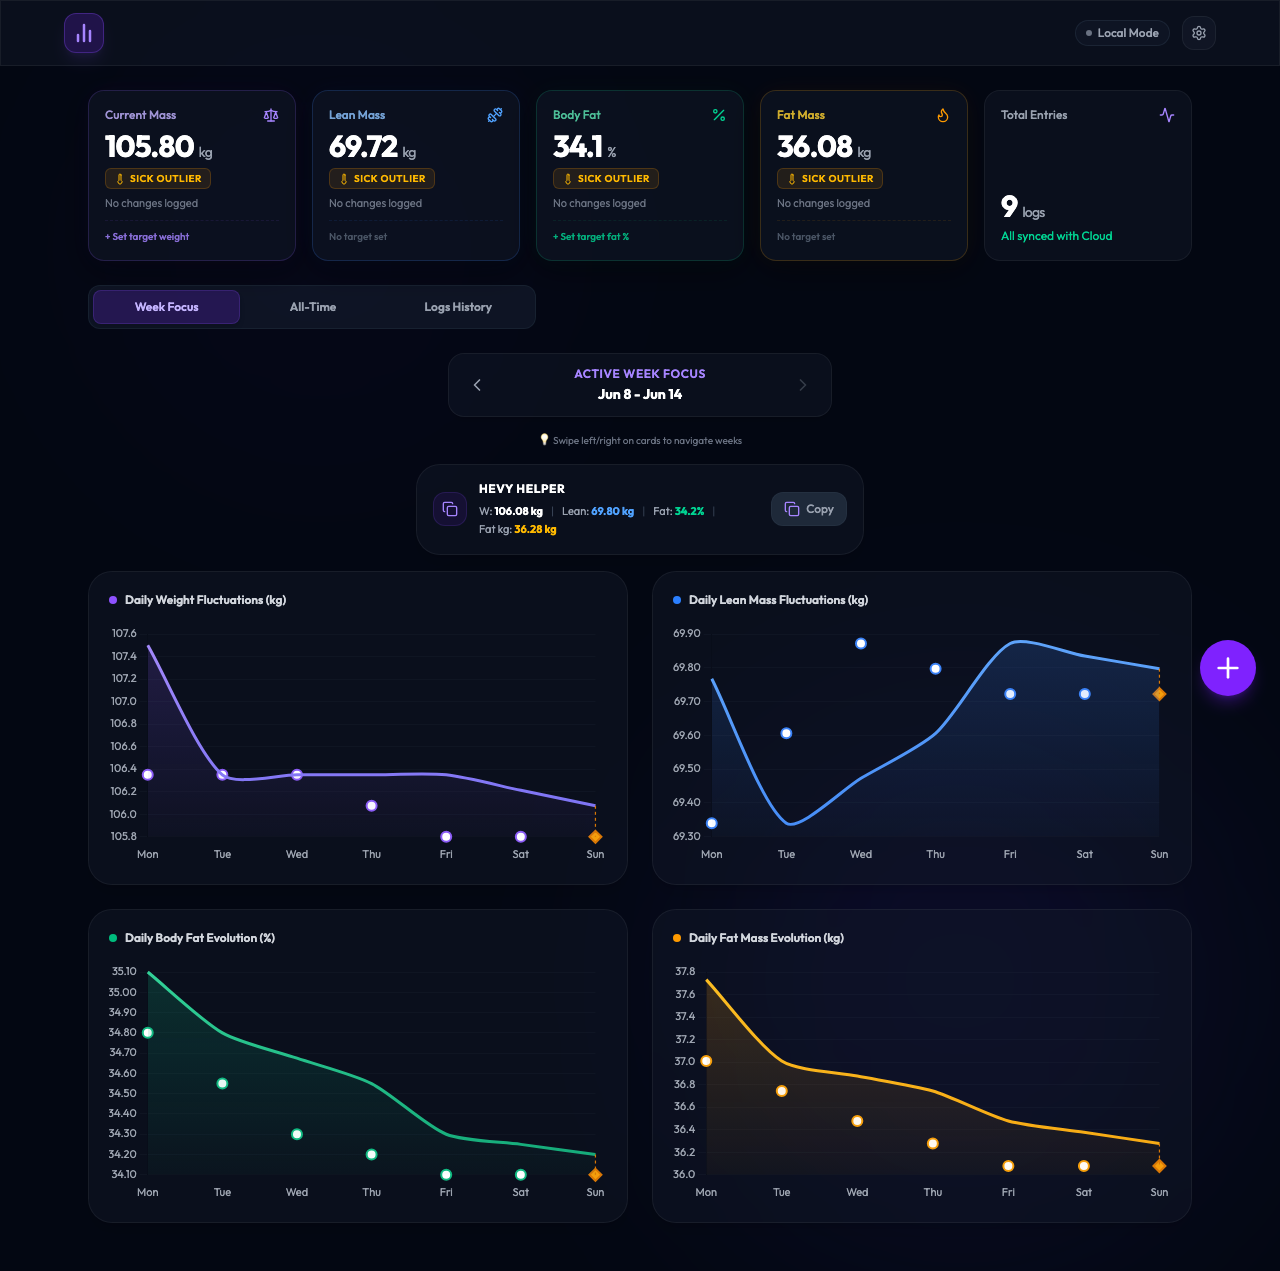
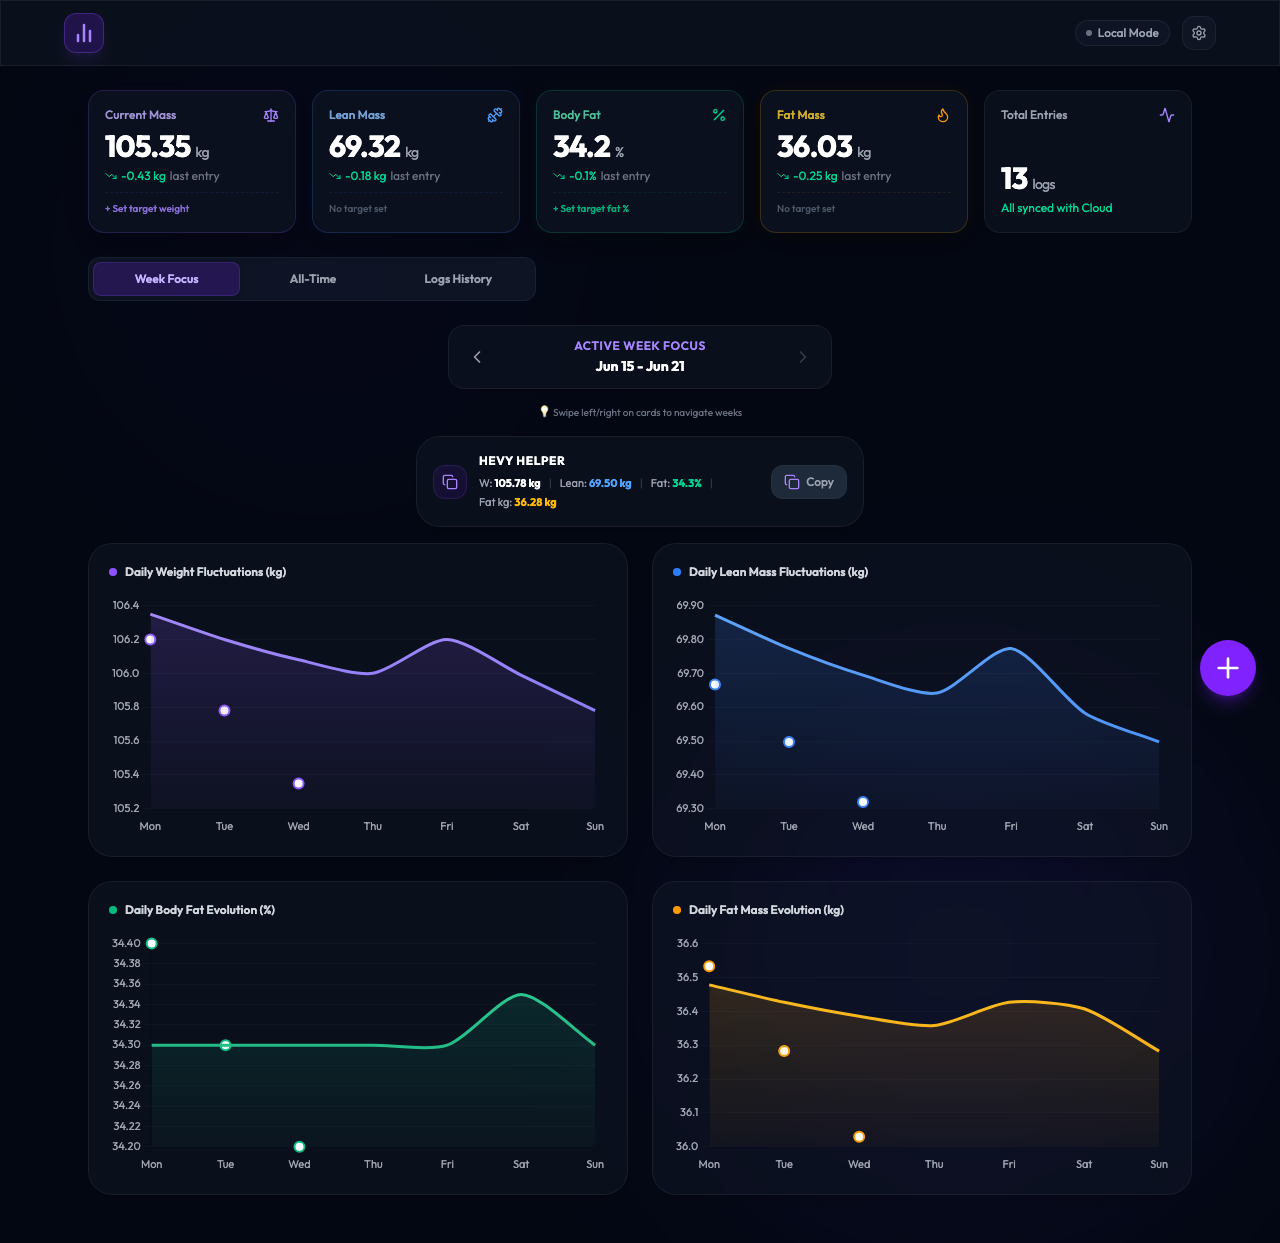
test: seed dense 13 daily logs dataset and update assertions

diff --git a/tests/charts.spec.js b/tests/charts.spec.js
@@ -28,15 +28,19 @@ test('Seed user data and take screenshot', async ({ page }) => {
         const store = transaction.objectStore(STORE_LOGS);
         store.clear();
         const testLogs = [
-          { id: '1', date: '2026-06-14', mass: 105.80, body_fat: 34.1, is_sick: true, synced: true, user_id: 'guest' },
-          { id: '2', date: '2026-06-13', mass: 105.80, body_fat: 34.1, is_sick: false, synced: true, user_id: 'guest' },
-          { id: '3', date: '2026-06-12', mass: 105.80, body_fat: 34.1, is_sick: false, synced: true, user_id: 'guest' },
-          { id: '4', date: '2026-06-11', mass: 106.075, body_fat: 34.20, is_sick: false, synced: true, user_id: 'guest' },
-          { id: '5', date: '2026-06-10', mass: 106.35, body_fat: 34.3, is_sick: false, synced: true, user_id: 'guest' },
-          { id: '6', date: '2026-06-09', mass: 106.35, body_fat: 34.55, is_sick: false, synced: true, user_id: 'guest' },
-          { id: '7', date: '2026-06-08', mass: 106.35, body_fat: 34.8, is_sick: false, synced: true, user_id: 'guest' },
-          { id: '8', date: '2026-06-05', mass: 107.65, body_fat: 35.1, is_sick: false, synced: true, user_id: 'guest' },
-          { id: '9', date: '2026-06-02', mass: 107.50, body_fat: 35.2, is_sick: false, synced: true, user_id: 'guest' }
+          { id: '1', date: '2026-06-17', mass: 105.35, body_fat: 34.2, is_sick: false, synced: true, user_id: 'guest' },
+          { id: '2', date: '2026-06-16', mass: 105.78, body_fat: 34.3, is_sick: false, synced: true, user_id: 'guest' },
+          { id: '3', date: '2026-06-15', mass: 106.20, body_fat: 34.4, is_sick: false, synced: true, user_id: 'guest' },
+          { id: '4', date: '2026-06-14', mass: 107.40, body_fat: 34.6, is_sick: true, synced: true, user_id: 'guest' },
+          { id: '5', date: '2026-06-13', mass: 106.60, body_fat: 34.3, is_sick: false, synced: true, user_id: 'guest' },
+          { id: '6', date: '2026-06-12', mass: 105.80, body_fat: 34.1, is_sick: false, synced: true, user_id: 'guest' },
+          { id: '7', date: '2026-06-11', mass: 106.08, body_fat: 34.2, is_sick: false, synced: true, user_id: 'guest' },
+          { id: '8', date: '2026-06-10', mass: 106.35, body_fat: 34.3, is_sick: false, synced: true, user_id: 'guest' },
+          { id: '9', date: '2026-06-09', mass: 106.35, body_fat: 34.6, is_sick: false, synced: true, user_id: 'guest' },
+          { id: '10', date: '2026-06-08', mass: 106.35, body_fat: 34.8, is_sick: false, synced: true, user_id: 'guest' },
+          { id: '11', date: '2026-06-07', mass: 106.80, body_fat: 34.9, is_sick: false, synced: true, user_id: 'guest' },
+          { id: '12', date: '2026-06-06', mass: 107.25, body_fat: 35.0, is_sick: false, synced: true, user_id: 'guest' },
+          { id: '13', date: '2026-06-05', mass: 107.65, body_fat: 35.1, is_sick: false, synced: true, user_id: 'guest' }
         ];
         testLogs.forEach(log => store.put(log));
         transaction.oncomplete = () => {
@@ -55,17 +59,17 @@ test('Seed user data and take screenshot', async ({ page }) => {
   // Wait for the active week logs helper or charts to load
   await expect(page.locator('.glass-card >> text=Hevy Helper')).toBeVisible();
 
-  // Assert Hevy Helper shows correct medians
-  await expect(page.locator('text=W: 106.08 kg')).toBeVisible();
-  await expect(page.locator('text=Lean: 69.80 kg')).toBeVisible();
-  await expect(page.locator('text=Fat: 34.2%')).toBeVisible();
+  // Assert Hevy Helper shows correct medians (from the active week of Jun 15 - Jun 21)
+  await expect(page.locator('text=W: 105.78 kg')).toBeVisible();
+  await expect(page.locator('text=Lean: 69.50 kg')).toBeVisible();
+  await expect(page.locator('text=Fat: 34.3%')).toBeVisible();
   await expect(page.locator('text=Fat kg: 36.28 kg')).toBeVisible();
 
-  // Assert raw measurements are displayed on the top cards
-  await expect(page.locator('text=105.80 kg').first()).toBeVisible(); // Total Mass card
-  await expect(page.locator('text=69.72 kg').first()).toBeVisible(); // Lean Mass card
-  await expect(page.locator('text=34.1 %').first()).toBeVisible(); // Body Fat card
-  await expect(page.locator('text=36.08 kg').first()).toBeVisible(); // Fat Mass card
+  // Assert raw measurements of latest day (Jun 17) are displayed on the top cards
+  await expect(page.locator('text=105.35 kg').first()).toBeVisible(); // Total Mass card
+  await expect(page.locator('text=69.32 kg').first()).toBeVisible(); // Lean Mass card
+  await expect(page.locator('text=34.2 %').first()).toBeVisible(); // Body Fat card
+  await expect(page.locator('text=36.03 kg').first()).toBeVisible(); // Fat Mass card
 
   // Let it render for 1 second
   await page.waitForTimeout(1000);
